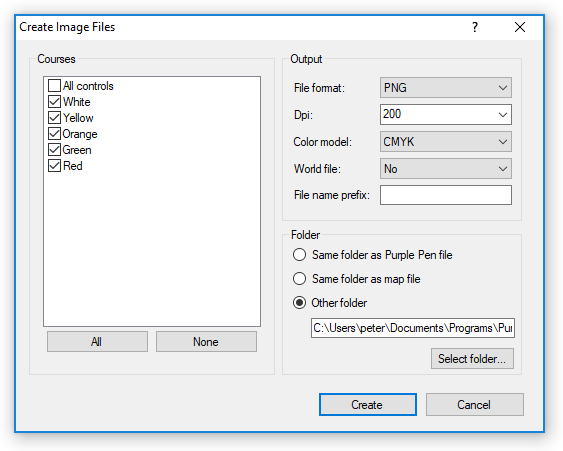
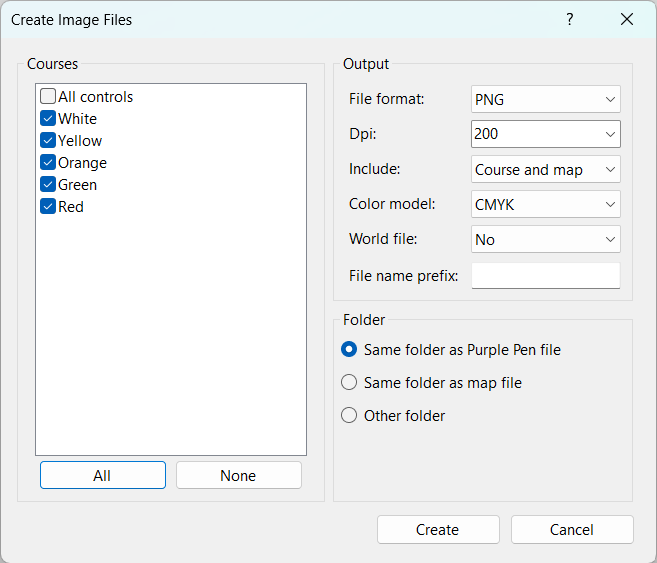
Update Help file with new options for course only

diff --git a/doc/userdocs/Help/FileCreatePdfCourses.htm b/doc/userdocs/Help/FileCreatePdfCourses.htm
@@ -9,12 +9,14 @@
 <!-- #EndEditable -->
 </HEAD>
 <BODY>
-<!-- #BeginEditable "content" -->
-<h1>File/Create PDFs/Courses...</h1>
+    <!-- #BeginEditable "content" -->
+    <h1>File/Create PDFs/Courses...</h1>
 
-<p>Creates PDF file(s) for later viewing or printing. By default, the 
-entire map will be placed in the PDF. To chose the area that will be printed, the paper size, and the paper orientation, use the
-<a href="FileSetPrintArea.htm">File/Set Print Area</a> command.</p>
+    <p>
+        Creates PDF file(s) for later viewing or printing. By default, the
+        entire map will be placed in the PDF. To chose the area that will be printed, the paper size, and the paper orientation, use the
+        <a href="FileSetPrintArea.htm">File/Set Print Area</a> command.
+    </p>
     <p>Using this command is preferable to using the Print Courses command and a PDF printer driver for several reasons:</p>
     <ul>
         <li>The resulting PDF will typically be smaller in size.</li>
@@ -25,61 +27,87 @@ entire map will be placed in the PDF. To chose the area that will be printed, th
         <li>If desired, each course can be placed in its own PDF file.</li>
     </ul>
     <p>
-        In some cases, using this command and printing the resulting PDFs may produce better output than directly using the Print Courses command, depending on your specific printer.</p>
+        In some cases, using this command and printing the resulting PDFs may produce better output than directly using the Print Courses command, depending on your specific printer.
+    </p>
     <p>&nbsp;</p>
-<p>
-<img alt="Print Courses Dialog" src="CreatePdfs.png"></p>
-<p>This dialog has several options to customize how PDF files are created.</p>
-<h2>Courses section</h2>
-<p>
-    This section shows which courses will be
-    printed. The default setting is for all courses except &quot;All Controls&quot; to be
-    printed. Click the checkboxes next to the courses you wish to print. Click
-    <strong>All</strong> or <strong>None</strong> to quickly select or unselect all
-    of the checkboxes at once. If you are printing a course with variations, click on the course name (not just the checkbox), select <a href="ChooseVariations.htm">Choose Variations...</a> to select how to print the variations.
-</p>
-<h2>Files sections</h2>
-    <p><strong>Name prefix</strong>: If something is typed in here, it is 
-prefixed onto the file name of each PDF file. For example, if you type 
-&quot;Final&quot; in this box, then the result files would be &quot;Final-Course 1.pdf&quot;, 
-&quot;Final-Course 2.pdf&quot;, etc.</p>
+    <p>
+        <img alt="Print Courses Dialog" src="CreatePdfs.png">
+    </p>
+    <p>This dialog has several options to customize how PDF files are created.</p>
+    <h2>Courses section</h2>
+    <p>
+        This section shows which courses will be
+        printed. The default setting is for all courses except &quot;All Controls&quot; to be
+        printed. Click the checkboxes next to the courses you wish to print. Click
+        <strong>All</strong> or <strong>None</strong> to quickly select or unselect all
+        of the checkboxes at once. If you are printing a course with variations, click on the course name (not just the checkbox), select <a href="ChooseVariations.htm">Choose Variations...</a> to select how to print the variations.
+    </p>
+    <h2>Files sections</h2>
+    <p>
+        <strong>Name prefix</strong>: If something is typed in here, it is
+        prefixed onto the file name of each PDF file. For example, if you type
+        &quot;Final&quot; in this box, then the result files would be &quot;Final-Course 1.pdf&quot;,
+        &quot;Final-Course 2.pdf&quot;, etc.
+    </p>
     <p><strong>Files</strong>: Indicates how multiple maps are packaged into PDF files. The choices are:</p>
     <ul>
         <li><strong>One for all courses</strong>. A single PDF file is created with all courses in it, one page per course. The name of the PDF is the name of the event.</li>
         <li><strong>One per course</strong>. Each course is placed in its own PDF file. The name of the PDF is the name of the course. If a course has a map exchange, the PDF file will contains multiple pages, one for each part.</li>
         <li><strong>One per course part</strong>. Each course is placed in its own PDF file .The name of the PDF is the name of the course. If a course has a map exchange, each part of the course is placed in its own PDF file, with &quot;-1&quot;, &quot;-2&quot;, etc added to the file name.</li>
     </ul>
-<h2>Appearance section</h2>
-<p>Several things are set in this area:</p>
-    <p><strong>Print area too large</strong>: This setting determines what happens if the <a href="FileSetPrintArea.htm">
-print area</a> is too large to fit on a single sheet of paper. <strong>Crop to a single 
-page</strong> (the default) will pick the portion of the map that best covers that 
-course. <strong>Print on multiple pages</strong> will print multiple pages of maps to cover the 
-entire print area. Note: if the base map file is a PDF map, you cannot change this option.</p>
+    <h2>Appearance section</h2>
+    <p>Several things are set in this area:</p>
     <p>
-        <strong>Print Map Exchanges on Same Map</strong>: This setting only appears if a map exchange is present in the event. If this is checked, all parts of the course are printed together, overlapping. If unchecked, a separate map is printed for each part of the course. Typically this should be left unchecked unless you want to see all parts together for some reason.</p>
+        <strong>Print area too large</strong>: This setting determines what happens if the <a href="FileSetPrintArea.htm">
+            print area
+        </a> is too large to fit on a single sheet of paper. <strong>
+            Crop to a single
+            page
+        </strong> (the default) will pick the portion of the map that best covers that
+        course. <strong>Print on multiple pages</strong> will print multiple pages of maps to cover the
+        entire print area. Note: if the base map file is a PDF map, you cannot change this option.
+    </p>
     <p>
-        &nbsp;<strong>Color Model</strong>: Determines how the colors on the map are stored inside the PDF file:</p>
+        <strong>Print Map Exchanges on Same Map</strong>: This setting only appears if a map exchange is present in the event. If this is checked, all parts of the course are printed together, overlapping. If unchecked, a separate map is printed for each part of the course. Typically this should be left unchecked unless you want to see all parts together for some reason.
+    </p>
+    <p>
+        <strong>Include</strong>: Controls whether the course and map is in the resulting PDF, or just the course.
+    </p>
+    <ul>
+        <li><strong>Course and Map</strong>: (the default) The underlying map and the course are in the resulting PDF.</li>
+        <li><strong>Course Only</strong>: Only the course itself is ouput to the PDF. Useful when overprinting onto existing maps, or uploading to certain course sharing web sites.</li>
+    </ul>
+    <p>
+        &nbsp;<strong>Color Model</strong>: Determines how the colors on the map are stored inside the PDF file:
+    </p>
     <ul>
         <li><strong>RGB</strong>: Translates the Cyan-Magenta-Yellow-Black colors in the map to Red-Green-Blue colors using a simple formula. The colors on the printer will typically not match the intended colors exactly. This is the method used by versions of Purple Pen prior to 2.0.</li>
         <li><strong>CMYK</strong>: The default. Outputs the Cyan-Magenta-Yellow-Black colors to the PDF file. This generally produces the most accurate rendition of the intended colors.</li>
     </ul>
-<h2>Folder section</h2>
-<p>This section determines in which folder (directory) the course files are 
-created. There are three choices:</p>
-<ul>
-	<li><strong>Same folder as Purple Pen file</strong>. The files are placed in 
-	the same folder as the Purple Pen (.ppen) file for this event. This is the 
-	default choice.</li>
-	<li><strong>Same folder as map file</strong>. The files are placed in the 
-	same folder as the map file for this event.</li>
-	<li><strong>Other folder. </strong>Any other folder. If you chose this, a 
-	&quot;Select Folder...&quot; button appears which you can click to select any folder.</li>
-</ul>
+    <h2>Folder section</h2>
+    <p>
+        This section determines in which folder (directory) the course files are
+        created. There are three choices:
+    </p>
+    <ul>
+        <li>
+            <strong>Same folder as Purple Pen file</strong>. The files are placed in
+            the same folder as the Purple Pen (.ppen) file for this event. This is the
+            default choice.
+        </li>
+        <li>
+            <strong>Same folder as map file</strong>. The files are placed in the
+            same folder as the map file for this event.
+        </li>
+        <li>
+            <strong>Other folder. </strong>Any other folder. If you chose this, a
+            &quot;Select Folder...&quot; button appears which you can click to select any folder.
+        </li>
+    </ul>
     <h2>Other buttons</h2>
-<p><strong>Create</strong>: This button creates the PDFs. If this would cause files to be overwritten, a list of those files is displayed. The dialog box closes.</p>
+    <p><strong>Create</strong>: This button creates the PDFs. If this would cause files to be overwritten, a list of those files is displayed. The dialog box closes.</p>
     <p><strong>Cancel</strong>: Closes the dialog box without doing anything.</p>
-<!-- #EndEditable -->
+    <!-- #EndEditable -->
 </BODY>
 <!-- #EndTemplate -->
 </HTML>

diff --git a/doc/userdocs/Help/FileCreateImageFiles.htm b/doc/userdocs/Help/FileCreateImageFiles.htm
@@ -40,14 +40,24 @@
         <strong>DPI</strong>: This number of dots per inch in the bitmap. The higher the number, the more detail is shown,
         and the larger the image file will be.
     </p>
+    <p>
+        <strong>Include</strong>: Controls whether the course and map is in the resulting PDF, or just the course.
+    </p>
+    <ul>
+        <li><strong>Course and Map</strong>: (the default) The underlying map and the course are in the resulting PDF.</li>
+        <li><strong>Course Only</strong>: Only the course itself is ouput to the PDF. Useful when overprinting onto existing maps, or uploading to certain course sharing web sites.</li>
+    </ul>
+
     <p><strong>Color Model</strong>: Determines how the colors on the map are converted into colors on the printer:</p>
     <ul>
         <li><strong>RGB</strong>: Translates the Cyan-Magenta-Yellow-Black colors in the map to Red-Green-Blue colors using a simple formula. The colors in the image will typically not match the intended colors exactly.</li>
         <li><strong>CMYK</strong>: The default. Keeps the Cyan-Magenta-Yellow-Black colors as true as possible, using a standard color profile of CMYK colors. This generally produces the most accurate rendition of the intended colors.</li>
     </ul>
-    <p><strong>World file:</strong> This is enabled if the base map file is an OCAD or OOM file with real world coordinates defined.
+    <p>
+        <strong>World file:</strong> This is enabled if the base map file is an OCAD or OOM file with real world coordinates defined.
         Set this to Yes to create a .PGW, .JGW, or .GFW world file that defines the relationship between the image
-        file and the real world coordinate system.</p>
+        file and the real world coordinate system.
+    </p>
     <p>
         <strong>File name prefix</strong>: If something is typed in here, it is
         prefixed onto the file name of each output file. For example, if you type
